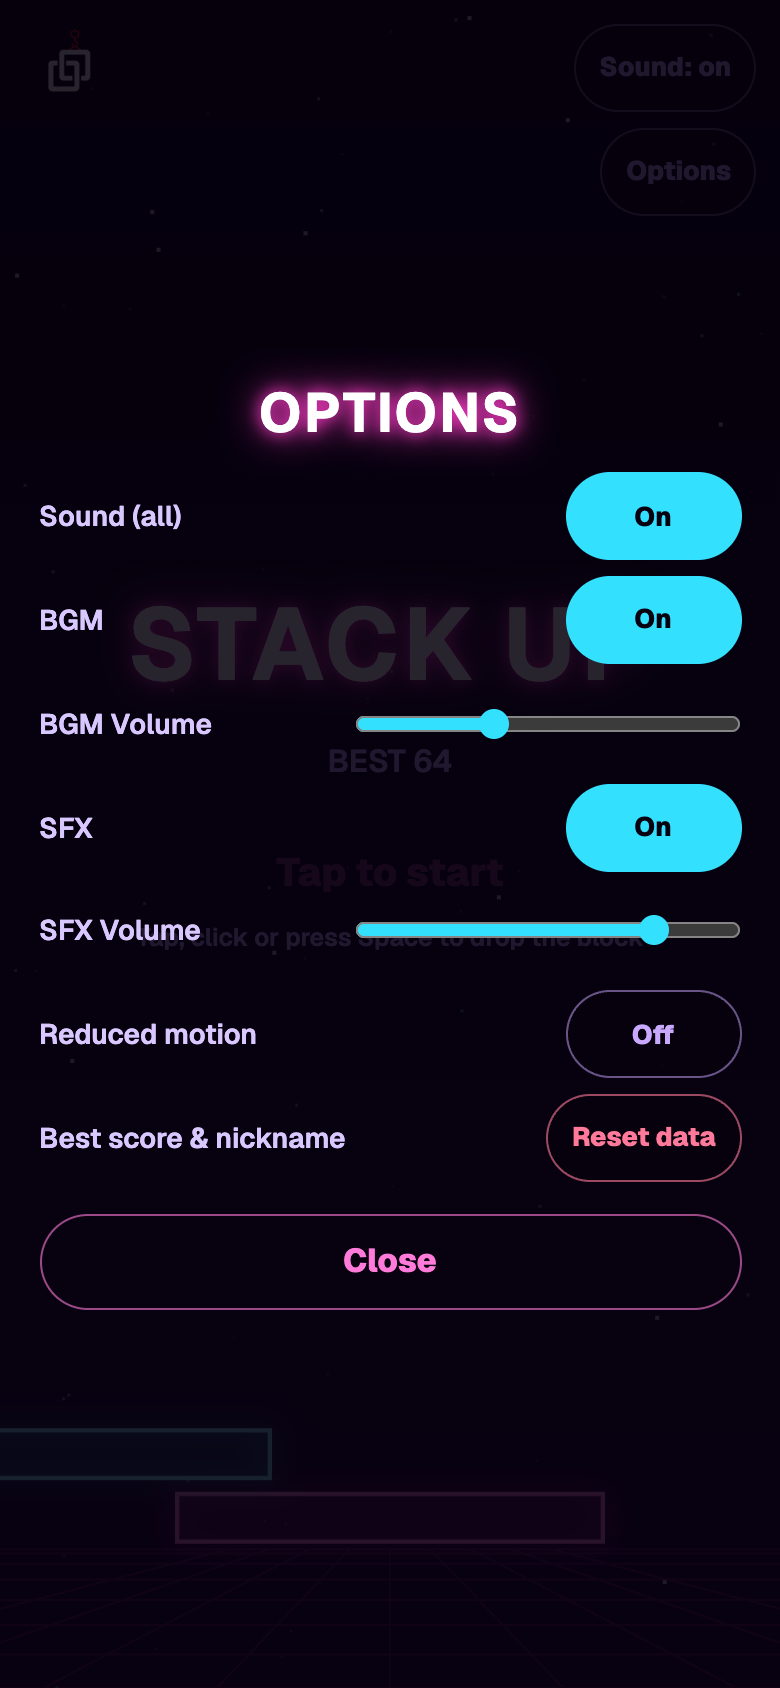
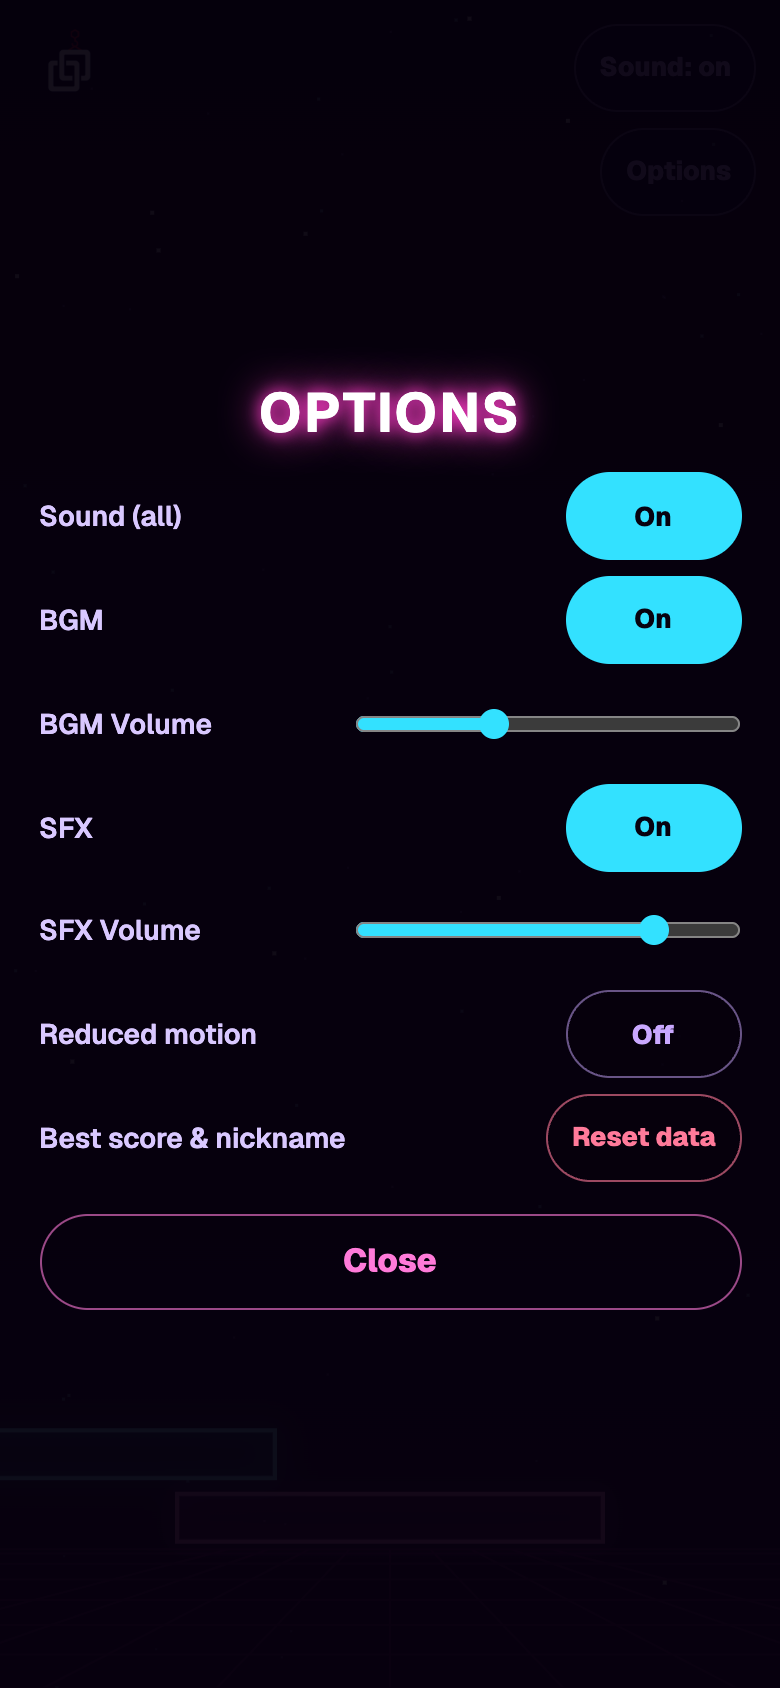
Hide the screen behind the options panel so its text no longer shows through

diff --git a/games/stack-up/src/ui/ui.css b/games/stack-up/src/ui/ui.css
@@ -189,9 +189,11 @@
 .ui[data-phase='playing'] .options-btn { display: none; }
 
 .options { z-index: 2; position: absolute; inset: 0; display: flex; justify-content: center; align-items: center; align-items: safe center;
-  overflow-y: auto; overscroll-behavior: contain; touch-action: pan-y; box-sizing: border-box; background: rgba(5, 0, 12, 0.86);
+  overflow-y: auto; overscroll-behavior: contain; touch-action: pan-y; box-sizing: border-box; background: rgba(5, 0, 12, 0.94);
   padding: calc(var(--u) * 4 + env(safe-area-inset-top, 0px)) calc(var(--u) * 5) calc(var(--u) * 4 + env(safe-area-inset-bottom, 0px)); }
 .options[hidden] { display: none; }
+/* 패널이 열린 동안 뒤쪽 화면 문구(타이틀/게임 오버)가 패널과 겹쳐 비치지 않게 숨긴다. 캔버스는 그대로. */
+.ui.options-open .screen { visibility: hidden; }
 .options-panel { width: 100%; max-width: calc(var(--u) * 90); margin: auto; display: flex; flex-direction: column; gap: calc(var(--u) * 2); }
 .options-title { margin: 0 0 calc(var(--u) * 1); text-align: center; font-size: calc(var(--u) * 7); letter-spacing: 0.04em;
   text-shadow: 0 0 calc(var(--u) * 2) #ff3cc8, 0 0 calc(var(--u) * 5) #ff3cc8; }

diff --git a/games/stack-up/src/ui/StackUpUi.ts b/games/stack-up/src/ui/StackUpUi.ts
@@ -172,6 +172,7 @@ export class StackUpUi {
 
   setOptionsOpen(open: boolean): void {
     this.optionsPanel.hidden = !open;
+    this.root.classList.toggle('options-open', open);
   }
 
   /** Reset data 버튼의 확인 단계 표시. */

diff --git a/docs/tasks/007-options-overlay-fix.md b/docs/tasks/007-options-overlay-fix.md
@@ -15,10 +15,10 @@
 - README 스크린샷 `docs/media/options.png`를 재생성(`npm run media`)해 반영.
 
 ## 완료 조건
-- [ ] `npm run check` 통과
-- [ ] 옵션 패널 뒤 문구가 겹쳐 보이지 않음(타이틀과 게임 오버 모두 캡처로 확인)
-- [ ] 패널 닫기 후 화면 복귀, 입력 동작 불변
-- [ ] `docs/media/options.png` 갱신
+- [x] `npm run check` 통과
+- [x] 옵션 패널 뒤 문구가 겹쳐 보이지 않음(타이틀과 게임 오버 모두 캡처로 확인)
+- [x] 패널 닫기 후 화면 복귀, 입력 동작 불변
+- [x] `docs/media/options.png` 갱신
 
 ## 범위 밖
 - 옵션 항목 추가/변경, 다른 화면 디자인 변경
